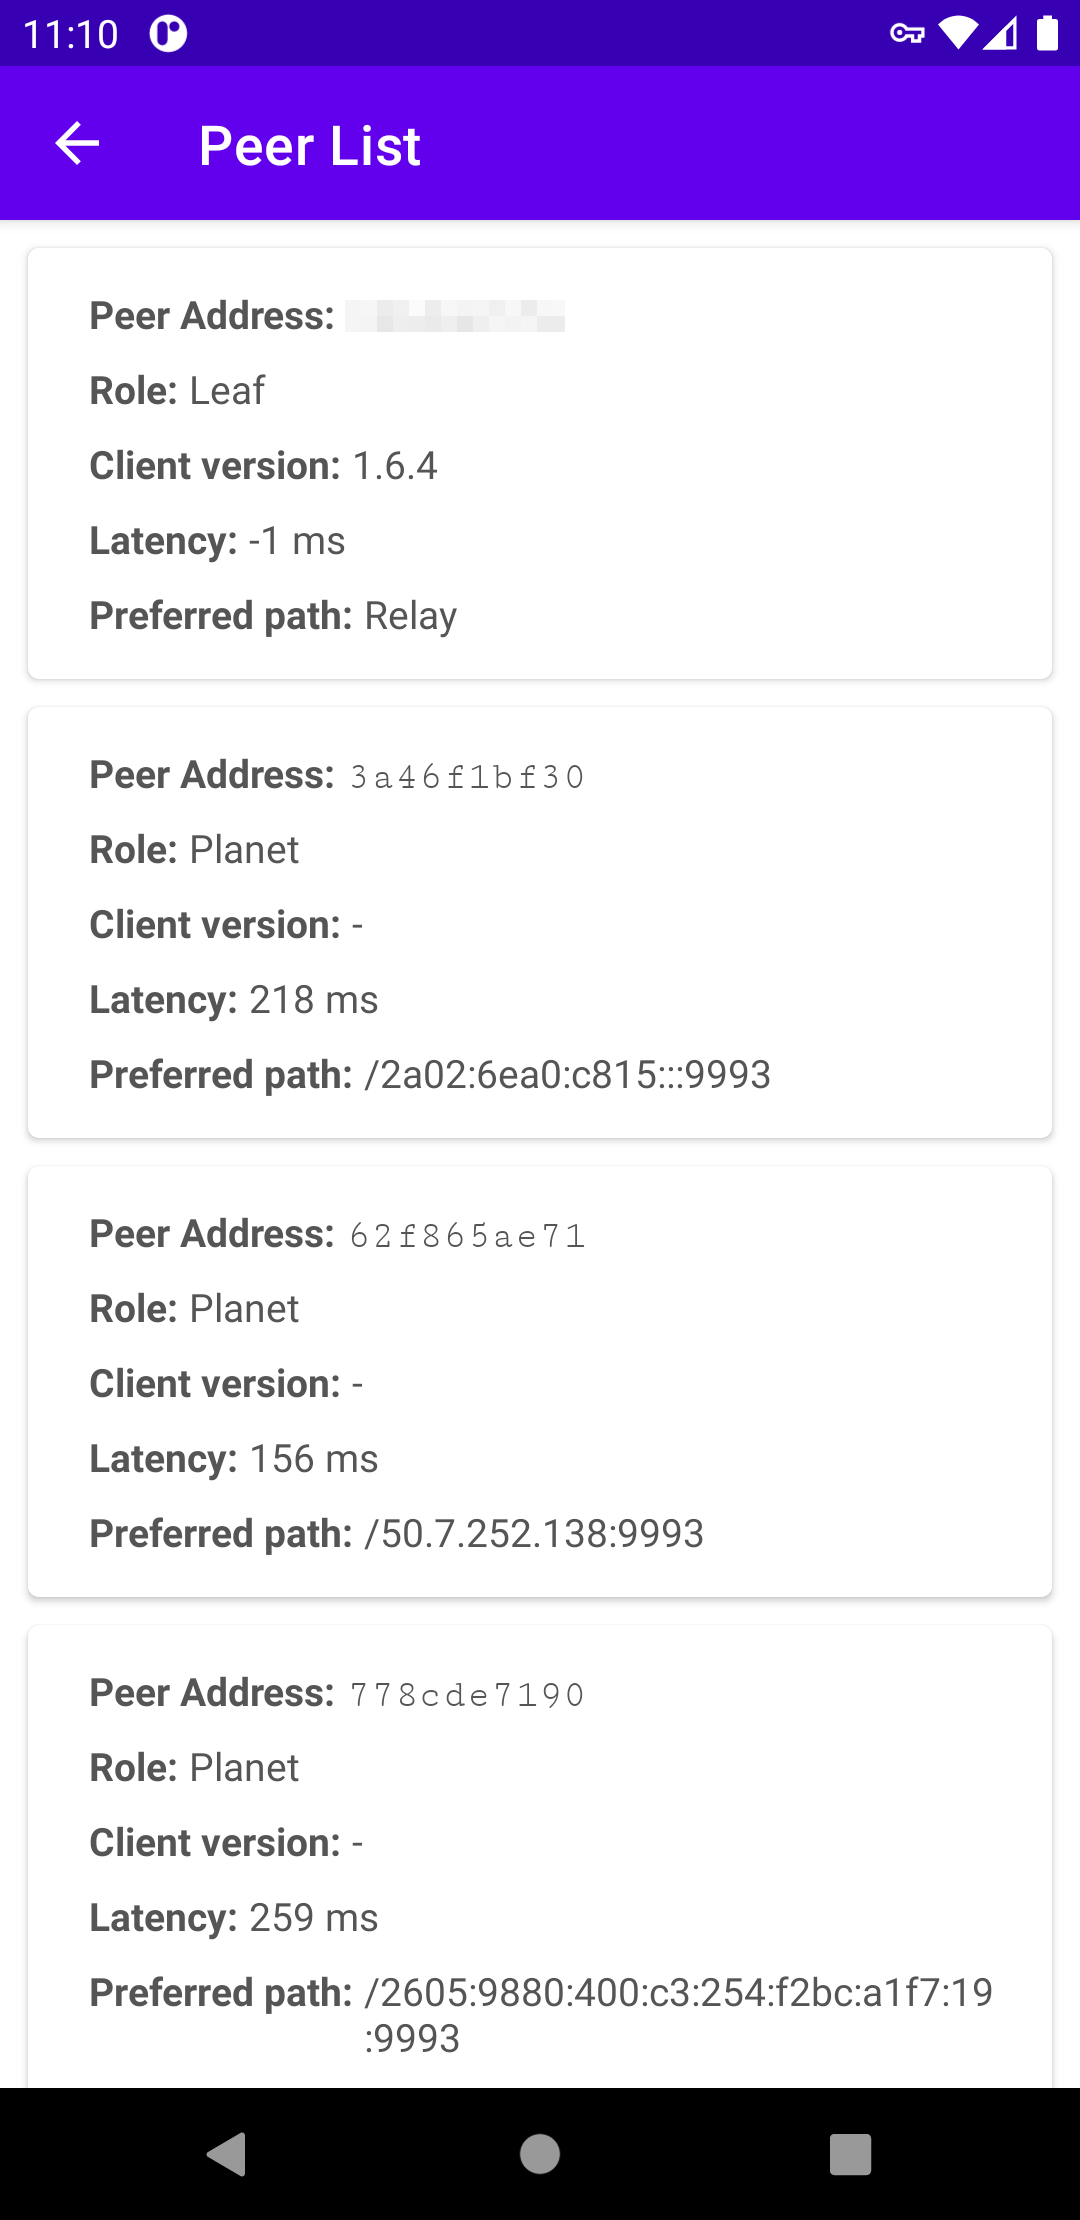
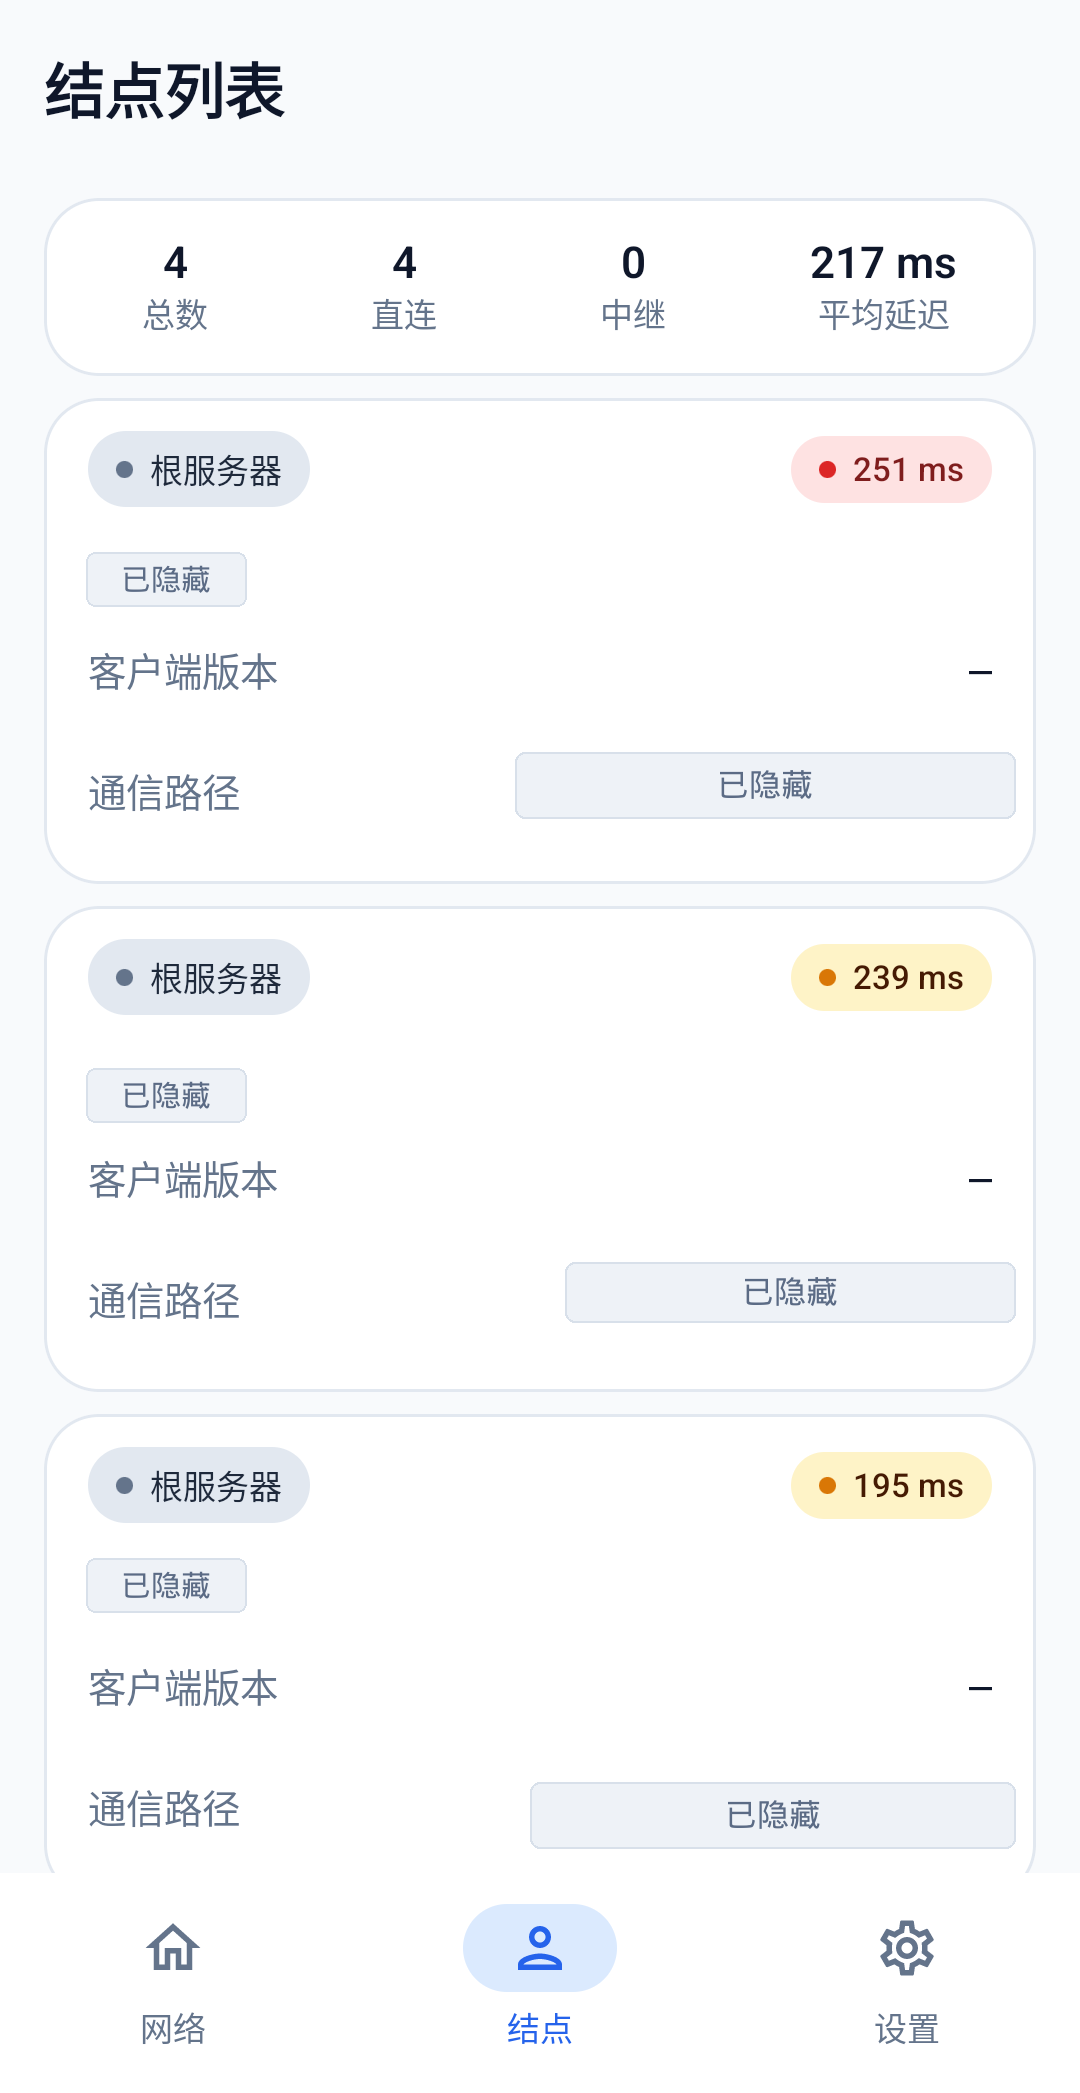
docs(readme): 重写中文介绍并更新应用截图
面向自建 ztnet / 自建 Planet 用户重写 README，只保留简介、功能、快速开始、
下载与说明，去掉构建、技术栈、权限等开发向内容。

截图替换为新版 Material 3 界面，删除旧版图片；结点截图中的 Peer 节点 ID
与通信地址做隐藏处理，其余截图使用演示数据。

diff --git a/README.md b/README.md
@@ -1,51 +1,121 @@
 <h1 align="center">
-  <img src="https://github.com/kaaass/ZerotierFix/blob/master/app/src/main/ic_launcher-playstore.png?raw=true" alt="Zerotier Fix" width="200">
+
+  <img src="app/src/main/ic_launcher-playstore.png" alt="Zerotier Fix" width="160">
+
   <br>Zerotier Fix<br>
+
 </h1>
 
-<h4 align="center">An unofficial Zerotier Android client patched from official client.</h4>
-
 <p align="center">
-  <img src="screenshots/main.png" alt="main" width="150"/>
-  <img src="screenshots/peers.png" alt="peers" width="150"/>
-  <img src="screenshots/moons.png" alt="moons" width="150"/>
+
+  面向 <b>自建 ztnet / 自建 Planet</b> 用户的现代 ZeroTier Android 客户端
+
 </p>
 
 <p align="center">
-    <a href="https://github.com/kaaass/ZerotierFix/actions/workflows/build-app.yml">
-        <img src="https://github.com/kaaass/ZerotierFix/actions/workflows/build-app.yml/badge.svg" alt="Build APP"/>
-    </a>
+
+  <a href="https://github.com/flyouter/ZerotierFix/releases">
+
+    <img src="https://img.shields.io/github/v/release/flyouter/ZerotierFix" alt="Release">
+
+  </a>
+
+  <img src="https://img.shields.io/badge/license-GPLv2-blue" alt="License">
+
 </p>
 
-## Features
+<p align="center">
 
-- Self-hosted Moon Support
-- Add custom planet config via file and URL
-- View peers list
-- Chinese translation
+  <img src="screenshots/networks.png" alt="网络列表" width="170">
 
-## Download
+  <img src="screenshots/join.png" alt="添加网络" width="170">
 
-Check [Releases page](https://github.com/kaaass/ZerotierFix/releases) for latest version.
+  <img src="screenshots/peers.png" alt="结点列表" width="170">
 
-If you want to try the nightly build, you can download it from [GitHub Actions](https://github.com/kaaass/ZerotierFix/actions/workflows/build-app.yml?query=branch%3Amaster).
-But please note that the nightly build may be **BUGGY** and **UNSTABLE**.
+</p>
 
-## Copyright
+<p align="center">
 
-The code for this repository is based on the reverse engineering of the official Android client. The
-original author is Grant Limberg (glimberg@gmail.com). See [AUTHORS.md](https://github.com/zerotier/ZeroTierOne/blob/master/AUTHORS.md#primary-authors) for more details.
+  <img src="screenshots/settings.png" alt="设置" width="170">
 
-- Zerotier JNI Sdk is located in git submodule `externals/core`
-- Original Android client code is located in `net.kaaass.zerotierfix` (renamed from `com.zerotier.one`)
-- App logo is a trademark of `ZeroTier, Inc.` and made by myself. 
+  <img src="screenshots/planet.png" alt="导入 Planet" width="170">
 
+</p>
 
-## Roadmap
+> 截图中的网络名称、Network ID、节点 ID 与通信地址等已使用演示数据或做隐藏处理。
 
-- [X] Add moon config persistent & file config
-- [x] Add peer list view
-- [x] Support planet config
-- [x] Replace pre-built JNI library
-- [x] Rewrite & update UI to fit Material Design
-- [ ] *WIP* Rewrite whole APP in v2
+## 简介
+
+Zerotier Fix 是一个第三方的 ZeroTier Android 客户端，界面使用现代 Material 3 设计重新
+打造，并补上了官方客户端缺失的自定义 Planet 能力。
+
+如果你使用 [ztnet](https://github.com/sinamics/ztnet) 或其它自建的 ZeroTier 控制器，
+并为自己网络生成了独立的 Planet，这个客户端可以让手机直接连上你的私有根服务器，而不再
+依赖 ZeroTier 官方 Planet。
+
+## 功能
+
+### 自建 Planet
+
+- 通过本地文件或 URL 导入 planet
+- 一键启用 / 关闭自定义 Planet，完全隔离 ZeroTier 官方服务器
+- 配置变更后断开重连即可生效
+
+### 网络
+
+- 添加 / 删除网络，支持输入 16 位 Network ID 或扫描二维码
+- 每个网络独立开关，可选择通过 ZeroTier 路由全部流量
+- DNS 模式：无 DNS / 网络 DNS / 自定义 DNS（IPv4、IPv6）
+- 详情页展示状态、托管 IP、MAC、MTU、网络类型与 DNS 等信息
+
+### 结点与 Moon
+
+- 结点列表展示角色（根服务器 / Moon / Leaf）、客户端版本、延迟与直连 / 中继路径
+- 汇总结点总数、直连数、中继数与平均延迟
+- Moon 入轨：导入 moon 文件，或手动填写 Moon 地址与种子
+
+### 系统集成
+
+- VPN 前台服务与常驻通知，通知中显示当前网络名称
+- 快捷设置磁贴一键连接 / 断开
+- 移动数据与 IPv6 开关
+- 浅色 / 深色主题，宽屏下自动切换为侧边导航栏
+- 简体中文与英文界面
+
+## 快速开始（ztnet + 自建 Planet）
+
+1. 在 ztnet 控制台生成并下载你网络的 `planet` 文件，或准备一个可访问的下载链接。
+2. 安装 APK 并打开应用。
+3. 进入 **设置 → Planet 设置**：
+   - 打开 **启动自定义 Planet**；
+   - 点击 **设置 Planet 文件**，选择 **文件** 或 **URL** 导入。
+4. 回到 **网络** 页，点击 **添加网络**，输入 16 位 Network ID，或扫描 ztnet 提供的加入二维码。
+5. 打开网络开关，并按系统提示授予 VPN 权限。
+6. 在 ztnet 控制台授权该设备（私有网络需要手动授权）。
+7. 如果修改了 Planet 文件，请先关闭再打开网络，使新配置生效。
+
+> 扫码支持 `https://joinzt.com/addnetwork?nwid=<16 位 Network ID>` 形式的链接，也支持
+> 直接包含 Network ID 的二维码。
+
+## 下载
+
+- 稳定版：[Releases](https://github.com/flyouter/ZerotierFix/releases)
+- 开发版：[Actions](https://github.com/flyouter/ZerotierFix/actions/workflows/build-app.yml)
+的构建产物（可能不稳定）
+
+仅支持 64 位 ABI：`arm64-v8a` 与 `x86_64`，同时提供 universal 包。
+
+## 说明与限制
+
+- 本项目是非官方客户端，与 ZeroTier, Inc. 无关联。
+- Planet 文件由用户自行提供，应用不内置任何第三方控制器地址。
+- Android 同一时间只允许一个 VPN 应用处于活动状态。
+- 自定义 Planet 与 Moon 的配置变更需要断开重连后生效。
+- 应用不包含统计或追踪 SDK，网络配置与节点身份等数据均保存在本机。
+
+## 版权与致谢
+
+- 上游项目：[kaaass/ZerotierFix](https://github.com/kaaass/ZerotierFix)
+- ZeroTier JNI 与核心位于 `externals/core` 子模块。
+- 应用图标中的 ZeroTier 标识属于 ZeroTier, Inc.。
+- 本项目以 GPLv2 发布，详见 [LICENSE](LICENSE)。
